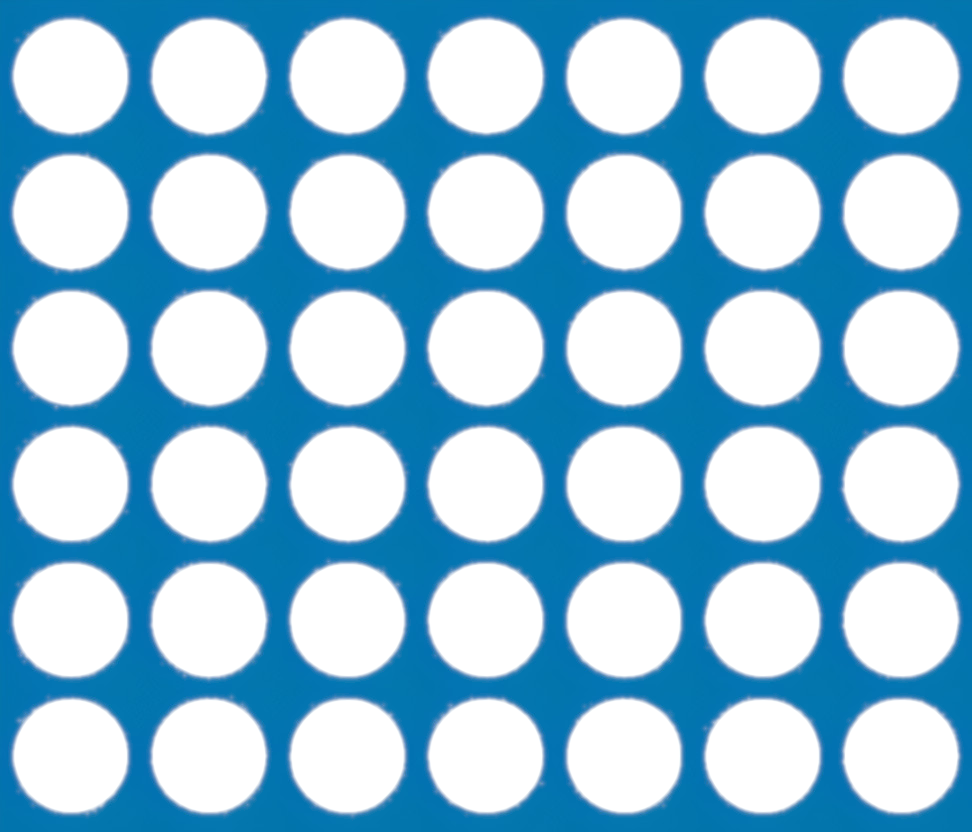
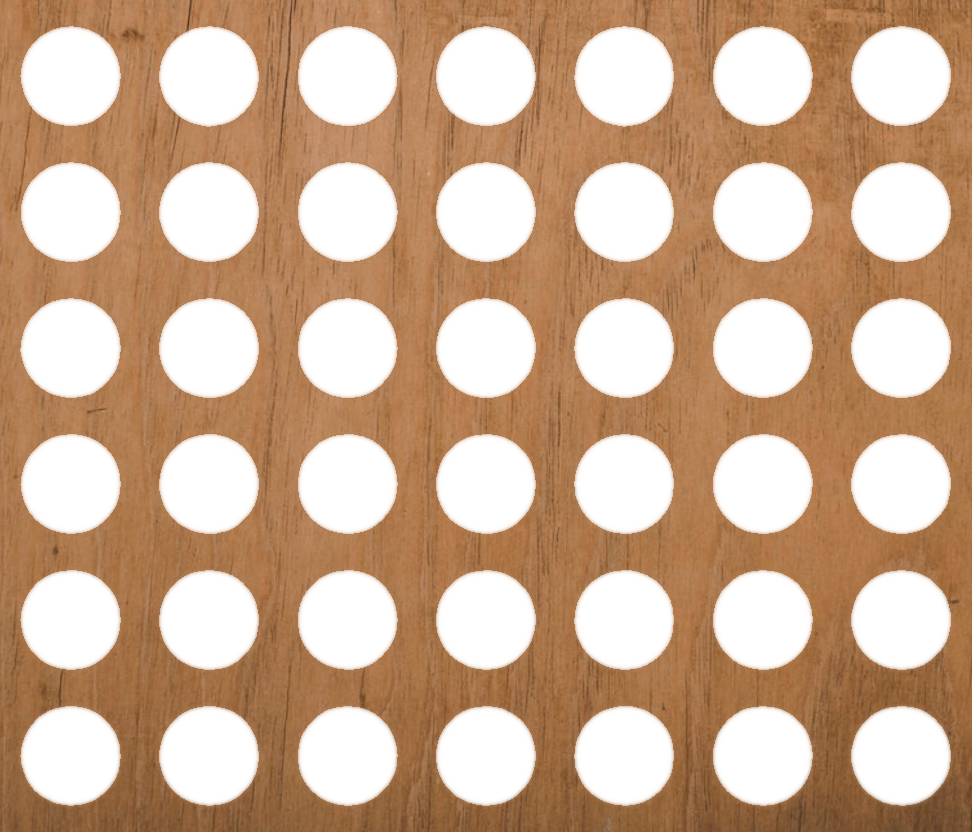
Changes in the document structure and CSS style to match the Figma Layout
-The function addDisc also handles the class toggle to show the player's
turn

diff --git a/style.css b/style.css
@@ -1,4 +1,4 @@
-body, html, div {
+body, html, div, header, main, footer, h1, h2, h3, p {
     margin: 0;
     padding: 0;
     box-sizing: border-box;
@@ -6,31 +6,126 @@ body, html, div {
 
 body {
     width: 100vw;
-    height: 100vh;
+    max-width: 100%;
+    height: 100%;
+    min-height: 100vh;
+    min-width: 280px;
+    background: url('bg.jpg');
+    background-size: cover;
+    background-position: bottom;
+    background-repeat: no-repeat;
+
+    display: flex;
+    flex-direction: column;
+    justify-content: space-between;
+}
+
+header {
+    background: #00000082;
+    min-height: 80px;
     display: flex;
     justify-content: center;
     align-items: center;
-    overflow: hidden;
-    min-width: 300px;
+    color: white;
 }
+
+header h1 {
+    text-align: center;
+}
+
+main {
+    width: 100%;
+    min-height: 600px;
+    display: flex;
+    flex-direction: column;
+    justify-content: center;
+    align-items: center;
+    padding: 10px;
+
+}
+
+footer {
+    background: #00000082;
+    min-height: 60px;
+    text-align: center;
+    color: #fff;
+    font-family: sans-serif;
+    font-size: 14px;
+    padding: 5px;
+}
+
+footer p {
+    padding: 5px;
+    max-width: 500px;
+    margin: auto;
+    text-align: center;
+}
+
+.players_container {
+    width: 100%;
+    max-width: 500px;
+    height: 60px;
+    display: flex;
+    justify-content: space-between;
+    align-items: center;
+}
+
+
+.players_container .player {
+    width: 150px;
+    height: 50px;
+    background: #000000b0;
+    color: #fff;
+    border-radius: 10px;
+    border: 3px solid transparent;
+
+    display: flex;
+    justify-content: space-around;
+    align-items: center;
+    transition: all .3s linear;
+}
+
+.player.selected {
+    border-color: white;
+}
+
+.player_disc_color {
+    width: 40px;
+    height: 40px;
+    border-radius: 50%;
+    border: 2px solid #fff;
+}
+
+.player_disc_color.color--red{
+    background: red;
+}
+
+.player_disc_color.color--black{
+    background: black;
+}
+
+
 
 .container {
     width: 100%;
-    max-width: 600px;
+    max-width: 500px;
     height: 400px;
     display: flex;
     flex-wrap: wrap;
-    background: linear-gradient(180deg, #01768d, #9b9b9b,#9b9b9b,#9b9b9b, #9b9b9b, #9b9b9b, #9b9b9b);
+    /* background: linear-gradient(180deg, #01768d, #9b9b9b,#9b9b9b,#9b9b9b, #9b9b9b, #9b9b9b, #9b9b9b); */
+    background: url("wood.jpeg");
     background-size: cover;
     position: relative;
     border-radius: 4px;
     align-items: flex-end;
     justify-content: flex-end;
     overflow: hidden;
-    border: 6px solid #007d92;
-    box-shadow: 0px 8px 8px 4px #8e8e8e;
+    border: 6px solid #8e614f;
+    box-shadow: 0px 8px 8px 4px #0000008a;
     margin: 0 10px;
 }
+
+
 
 .container::after {
     content: "";
@@ -143,11 +238,11 @@ body {
 
 @media screen and (min-width: 500px) {
     .container {
-        height: 600px;
+        height: 500px;
     }
 
     .container::after {
-        background-size: 100% 508px;
+        background-size: 100% 408px;
     }
 
     .column {

diff --git a/index.html b/index.html
@@ -5,10 +5,34 @@
     <meta http-equiv="X-UA-Compatible" content="IE=edge">
     <meta name="viewport" content="width=device-width, initial-scale=1.0">
     <link rel="stylesheet" href="style.css">
-    <title>Document</title>
+    <title>Lig-4</title>
 </head>
 <body>
-    <div class="container"></div>
+    <header>
+        <h1>Lig-4</h1>
+    </header>
+    <main>
+        <div class="players_container">
+            <div class="player selected">
+                <div class="player_name">
+                    <p>Jogador 1</p>
+                </div>
+                <div class="player_disc_color color--black" ></div>
+            </div>
+            <div class="player">
+                <div class="player_name">
+                    <p>Jogador 2</p>
+                </div>
+                <div class="player_disc_color color--red"></div>
+            </div>
+        </div>
+        <div class="container"></div>
+    </main>
+    <footer>
+        <h3>Regras do jogo</h3>
+        <p>Os jogadores devem colocar as fichas estratégicamente na base, de forma a formar uma sequência com as <strong>4 fichas da sua cor</strong>, ao mesmo tempo em que devem prestar atenção para bloquear as tentativas do oponente fazer o mesmo.</p>
+        <p>O primeiro jogador que conseguir formar uma sequência de <strong>4</strong> peças é o vencedor.</p>
+    </footer>
 </body>
 <script src="script.js">
 </script>

diff --git a/script.js b/script.js
@@ -1,6 +1,7 @@
 // ===== Global variables ======
 
 const container = document.querySelector('.container');
+const playerElm = document.querySelectorAll('.player');
 let columnsElement;
 let discColor = ['black', 'red'];
 let turn = 0;
@@ -73,6 +74,12 @@ const addDisc = (event) =>{
         element.classList.remove('red_turn', 'black_turn');
         element.classList.add(discColor[turn]+'_turn');
     })
+
+    playerElm.forEach((e)=>{
+        e.classList.remove('selected');
+    })
+
+    playerElm[turn].classList.add('selected');
 
     
     
